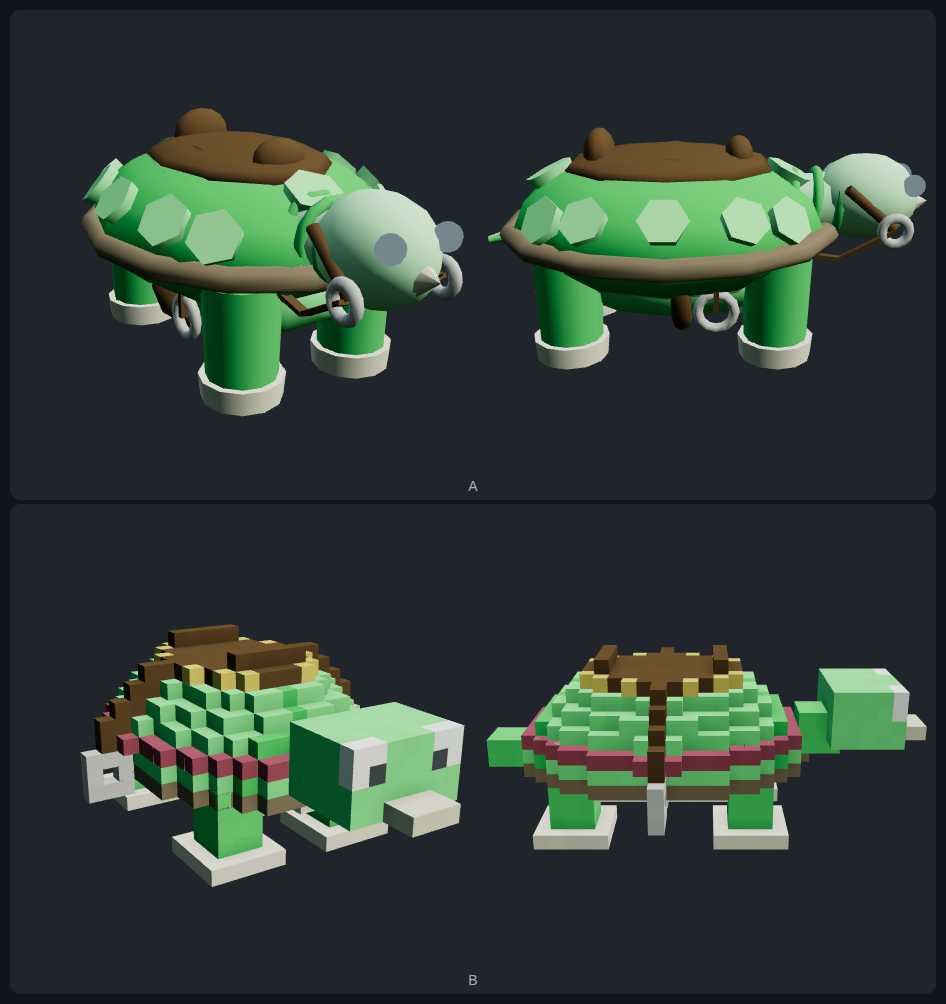
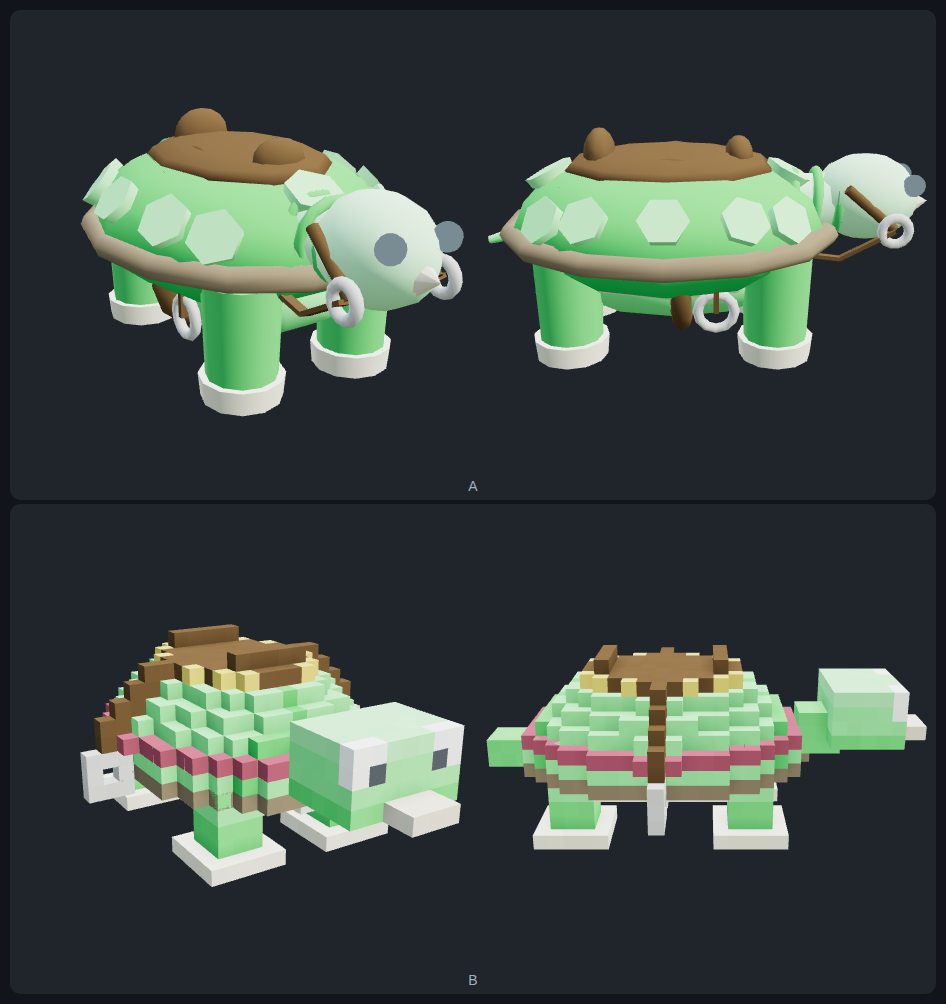
머리·다리에 면 분할 — '셀 크기가 섞였다'로 읽히던 진짜 원인 (mount-species-recognizable ⓒ)
비평가가 "복셀 셀 크기가 한 모델 안에 3종 이상 섞였다"고 읽었는데, 격자는 VS 0.04
**단일**이다. 진짜 원인은 등딱지만 층마다 반지름이 변해 잘게 계단지는데 머리·다리는
큰 민짜 슬래브라, 같은 격자인데도 해상도가 달라 보이는 것이었다.
→ **격자를 바꾸는 게 아니라 색을 나누는 게 답이다.** 무릎 한 줄, 정수리 한 줄, 턱 한 줄만
   갈라도 한 덩어리가 마디로 읽힌다.

⚠ 1판에서 부리가 통째로 사라졌다 — 턱 줄 recolor 의 z 상한을 안 끊어 각질 부리(z 16~18)
까지 같이 칠했다. 색 구획을 넣을 땐 **그 줄에 다른 재질의 파츠가 걸치는지 먼저 볼 것.**

회귀: 시험판 시트 콘솔 0 · node --check (라이브 경로 무영향 — 시험판은 게임에 안 물려 있다)

Changed region(s): [[0.0613, 0.6175, 0.981, 0.8954], [0.092, 0.0926, 0.4905, 0.4323], [0.5211, 0.1235, 0.981, 0.3705]]

diff --git a/web/js/scene3d.js b/web/js/scene3d.js
@@ -11245,7 +11245,7 @@ const Scene3D = {
         //    대비가 커서 계단면이 썸네일에서 지글거리는 노이즈로 뭉갠다."* 무늬는 대비가 아니라
         //    **판 크기**로 읽히므로(홈 간격 8) 대비를 낮춰도 갑판은 안 사라진다.
         const SHELL_D = H(0.05, -0.18), SHELL_L = H(0.02, 0.00);
-        const SKIN = H(0, 0), SKIN_D = H(0, -0.12);
+        const SKIN = H(0, 0), SKIN_D = H(0, -0.12), SKIN_L = H(0, 0.07);
         const RIM = 0x4a3b28, PLASTRON = 0xd8cdb0, BEAK = 0xcbbb9a, EYE = 0x1b1f24;
         const LEATHER = 0x2b1a0c, TRIM = 0xc9a227;
         const FOOT = 0xd8cdb0;
@@ -11280,8 +11280,13 @@ const Scene3D = {
         //    (채점 지적 ④ "발 없는 사각기둥 = 탁자 다리").
         g.userData.legs = [];
         for (const sx of [-1, 1]) for (const sz of [-1, 1]) {
+            // ⚠ **면 분할(색 구획)이 없으면 큰 민짜 슬래브로 보이고, 그러면 잘게 계단진 등딱지
+            //    옆에서 '셀 크기가 다르다'로 읽힌다** — 비평가가 "복셀 셀 크기가 3종 섞였다"고 읽은
+            //    진짜 원인이 이것이다(격자는 VS 0.04 단일이다). 무릎 한 줄만 어둡게 둘러도 다리가
+            //    한 덩어리에서 두 마디로 갈린다. **격자를 바꾸는 게 아니라 색을 나누는 게 답이다.**
             const leg = V.merge(V.at(V.slab(5, 1, 5, FOOT), sx * 4, 0, sz * 6),
-                                V.at(V.slab(3, 4, 3, SKIN_D), sx * 4, 1, sz * 6));
+                                V.recolor(V.at(V.slab(3, 4, 3, SKIN_D), sx * 4, 1, sz * 6),
+                                    v => v.y === 3 ? SKIN : undefined));
             g.userData.legs.push(part(leg, sx * 4, 4, sz * 6));      // 피벗 = 다리 윗끝(고관절)
         }
         // ⑵ 등딱지 + 배딱지 — 한 파츠(몸통). 배딱지는 한 층짜리 타원판이라 밑에서 봐도 거북이다.
@@ -11308,9 +11313,17 @@ const Scene3D = {
                             V.at(V.slab(7, 4, 5, SKIN), 0, 6, 14),          // 머리 — 치비라 넓고 높게
                             V.at(V.slab(3, 1, 3, BEAK), 0, 6, 17));         // 각질 부리
         headV = V.recolor(headV, v => {
-            if (v.z !== 16 || v.y < 8) return undefined;                    // 앞면 윗줄만
-            const ax = Math.abs(v.x);
-            if (ax === 2 || ax === 3) return (ax === 2 && v.y === 8) ? EYE : 0xf4f6f8;
+            if (v.z === 16 && v.y >= 8) {                                   // 앞면 윗줄 = 눈자리
+                const ax = Math.abs(v.x);
+                if (ax === 2 || ax === 3) return (ax === 2 && v.y === 8) ? EYE : 0xf4f6f8;
+            }
+            // 면 분할 — 정수리 한 줄을 밝게, 턱 한 줄을 어둡게. 다리와 같은 이유(위 주석)로
+            // 민짜 박스를 두 면으로 갈라 '저해상도 레고 머리'로 읽히는 걸 막는다.
+            if (v.y === 9 && v.z >= 12) return SKIN_L;
+            //    ⚠ 턱 줄의 z 상한을 **부리 앞(16)** 에서 끊는다 — 안 끊으면 각질 부리(z 16~18)까지
+            //    같이 칠해져 **부리가 통째로 사라진다**(1판에서 실제로 사라졌다). 색 구획을 넣을 땐
+            //    그 줄에 다른 재질의 파츠가 걸치는지 먼저 볼 것.
+            if (v.y === 6 && v.z >= 12 && v.z <= 16) return SKIN_D;
             return undefined;
         });
         g.userData.head = part(headV, 0, 5, 11);                            // 피벗 = 목 밑동
